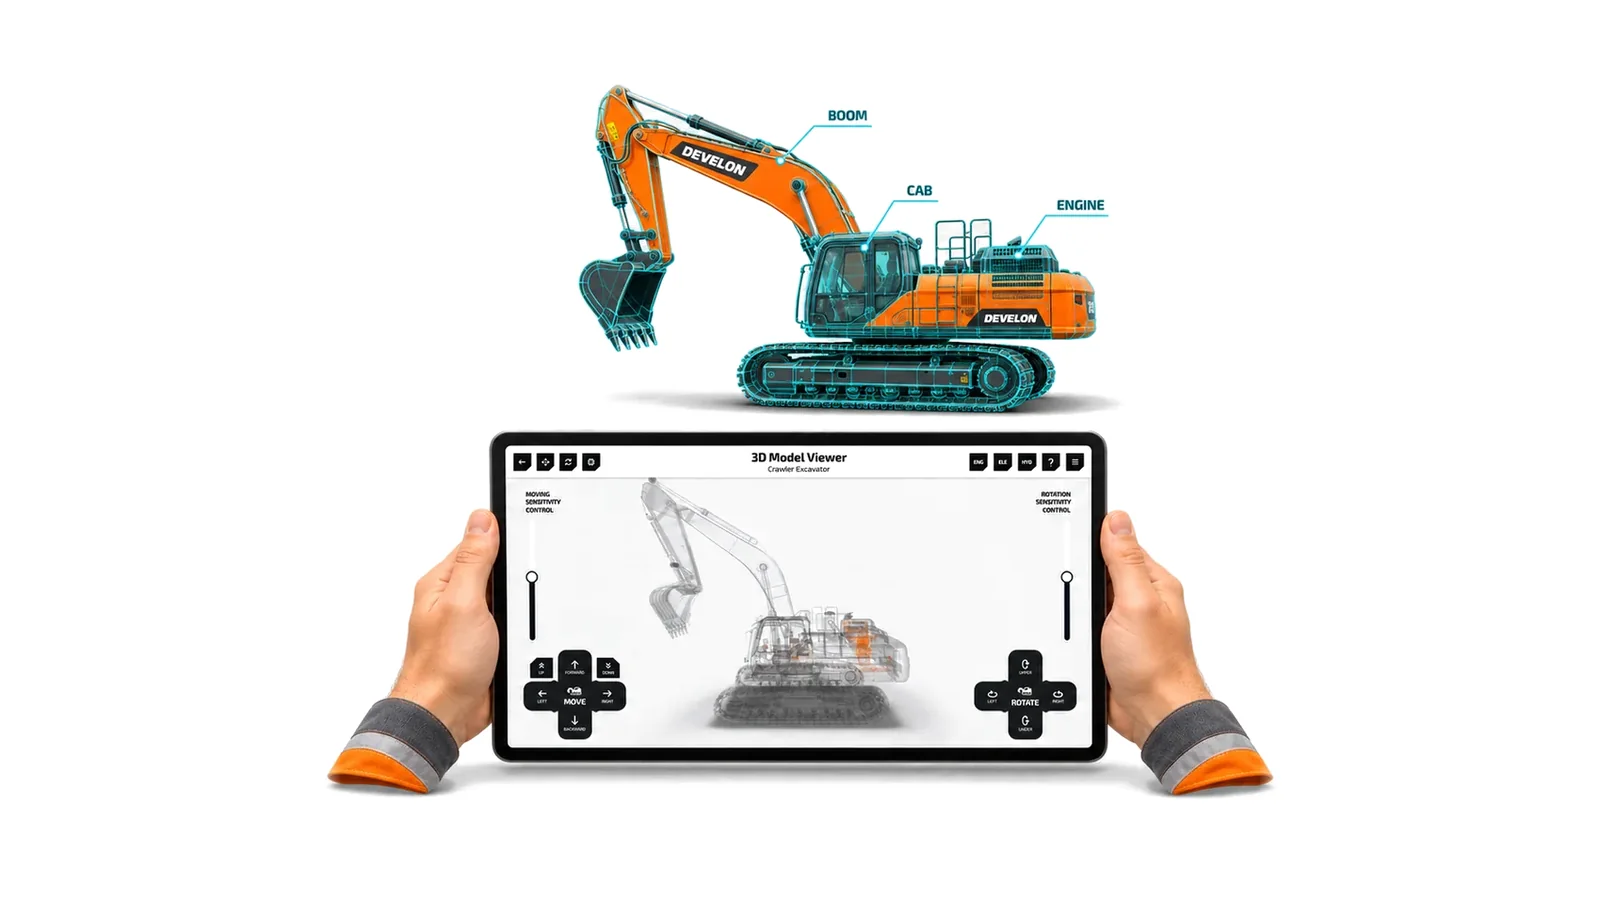
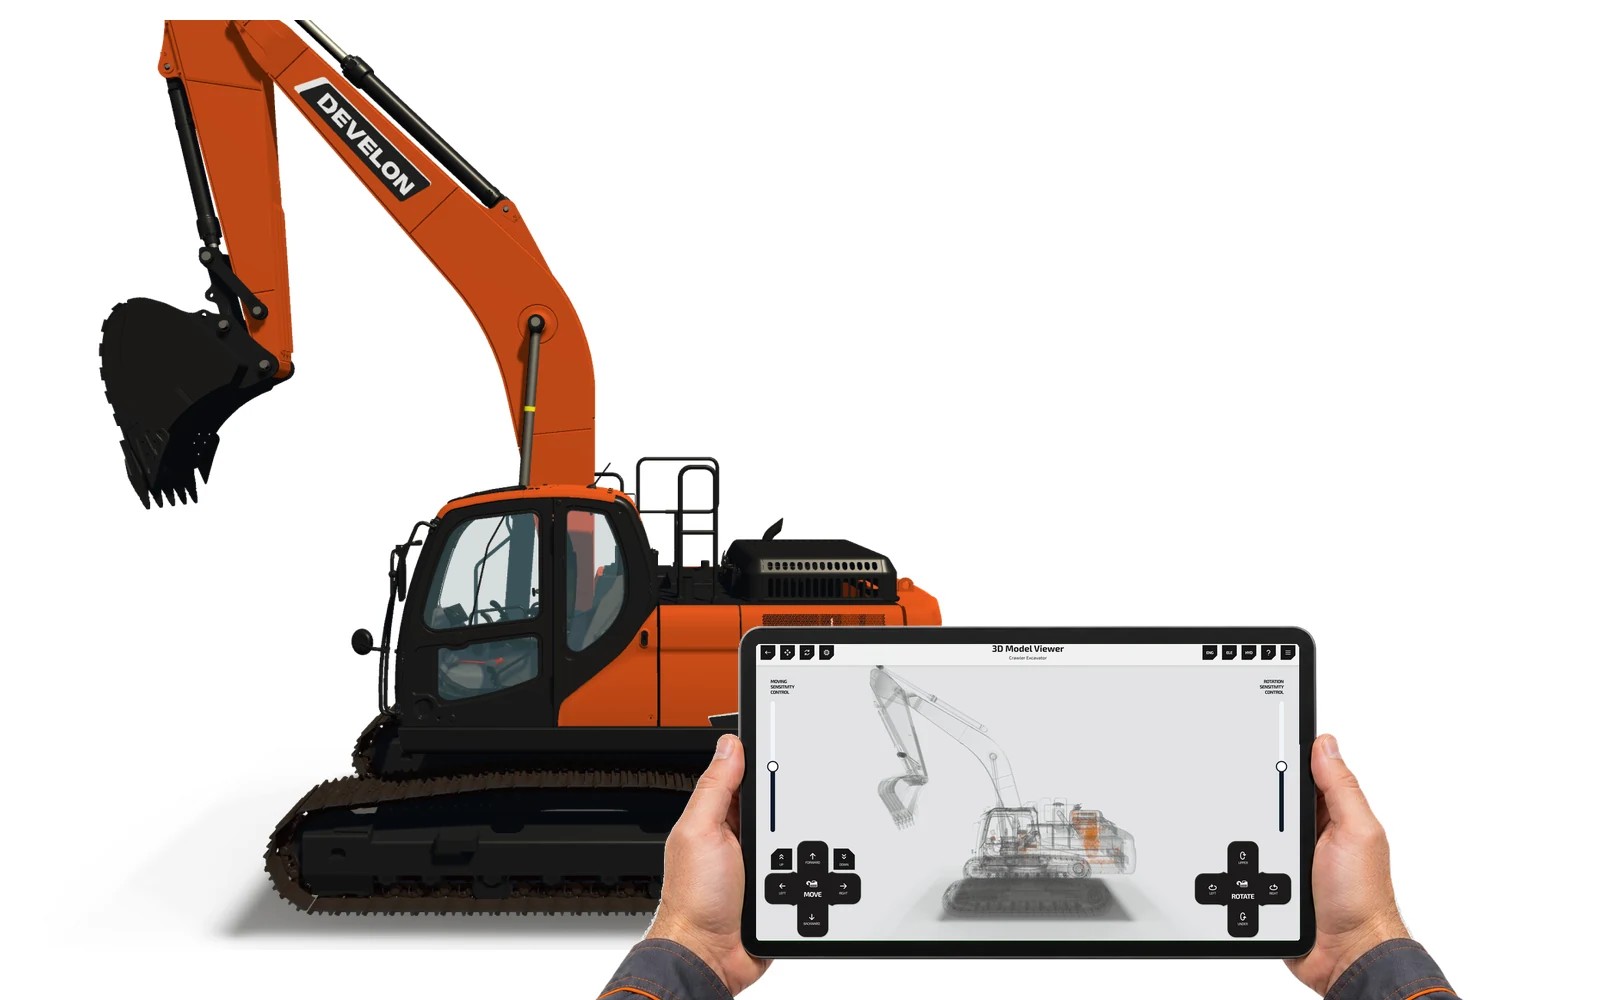
AR Guidance: 피그마 굴착기 원본 + 손·태블릿 합성(어노테이션 없음)을 커버·3D 뷰어에, 나머지는 UI 화면 그대로

diff --git a/index.html b/index.html
@@ -593,7 +593,7 @@ strong { font-weight: 600; }
         <span class="cover-info"><span class="cover-title">Hyundai Maintenance VR</span><span class="cover-sub">중장비 정비 교육 · Meta Quest</span><span class="cover-date">2024.05 ~ Ing</span></span>
       </a>
       <a class="cover" data-goto="ar-guidance" href="#ar-guidance">
-        <span class="cover-media"><img class="cover-img" src="assets/cover/scr-ar-guidance.webp?v=1119p" alt="Hyundai Guidance AR 대표 화면" loading="lazy"></span>
+        <span class="cover-media"><img class="cover-img" src="assets/cover/scr-ar-guidance.webp?v=1119v" alt="Hyundai Guidance AR 대표 화면" loading="lazy"></span>
         <span class="cover-info"><span class="cover-title">Hyundai Guidance AR</span><span class="cover-sub">중장비 AR 가이드 · Tablet</span><span class="cover-date">2022.01 ~ 2023.12</span></span>
       </a>
       <a class="cover" data-goto="korail" href="#korail">
@@ -1349,7 +1349,7 @@ strong { font-weight: 600; }
   <section class="section-block also-like">
     <div class="container">
       <h2 class="also-title">You may also like</h2>
-      <div class="like-grid"><a class="like" data-goto="vr-maintenance" href="#vr-maintenance"><span class="cover-media"><img loading="lazy" src="assets/cover/scr-vr-maintenance.webp?v=1119p" alt=""></span><span class="cover-title">Hyundai Maintenance VR</span><span class="cover-sub">중장비 정비 교육 · Meta Quest</span></a><a class="like" data-goto="ar-guidance" href="#ar-guidance"><span class="cover-media"><img loading="lazy" src="assets/cover/scr-ar-guidance.webp?v=1119p" alt=""></span><span class="cover-title">Hyundai Guidance AR</span><span class="cover-sub">중장비 AR 가이드 · Tablet</span></a></div>
+      <div class="like-grid"><a class="like" data-goto="vr-maintenance" href="#vr-maintenance"><span class="cover-media"><img loading="lazy" src="assets/cover/scr-vr-maintenance.webp?v=1119p" alt=""></span><span class="cover-title">Hyundai Maintenance VR</span><span class="cover-sub">중장비 정비 교육 · Meta Quest</span></a><a class="like" data-goto="ar-guidance" href="#ar-guidance"><span class="cover-media"><img loading="lazy" src="assets/cover/scr-ar-guidance.webp?v=1119v" alt=""></span><span class="cover-title">Hyundai Guidance AR</span><span class="cover-sub">중장비 AR 가이드 · Tablet</span></a></div>
     </div>
   </section>
   <div class="project-nav">
@@ -1571,7 +1571,7 @@ strong { font-weight: 600; }
 <!-- AR GUIDANCE VIEW -->
 <section class="view view-ar-guidance" id="view-ar-guidance">
 
-  <div class="project-cover"><img src="assets/cover/scr-ar-guidance.webp?v=1119p" alt="" loading="lazy"></div>
+  <div class="project-cover"><img src="assets/cover/scr-ar-guidance.webp?v=1119v" alt="" loading="lazy"></div>
   <div class="project-hero">
     <div class="container">
       <div class="eyebrow reveal"><span class="dot"></span><span>Project 02 — AR Training Platform</span></div>
@@ -1627,7 +1627,7 @@ strong { font-weight: 600; }
         <ul class="fig-points"><li><b>Tool Bar (Left)</b>뒤로가기 + 이동·회전·시점·렌더모드. 태블릿 가로 모드 좌측.</li><li><b>System Toggle (Right)</b>ENG · ELE · HYD 전환. 현재 HYD 활성, 유압 부품 오렌지 강조.</li><li><b>X-ray Highlight</b>선택된 시스템만 컬러, 나머지는 반투명 X-ray. 위치·구조 한눈에.</li><li><b>Move Pad + Sensitivity</b>6방향 이동. 좌측 세로 슬라이더로 민감도 조절.</li><li><b>Rotate Pad + Sensitivity</b>6방향 회전. 우측 세로 슬라이더로 민감도 조절.</li></ul>
       </div>
       <figure class="fig-shot" data-lightbox data-caption="3D Model Viewer · X-ray 굴착기">
-        <img loading="lazy" decoding="async" src="assets/legacy-cc2b3487.jpg" data-mock="assets/mock/legacy-cc2b3487.webp?v=1119p" alt="3D Model Viewer · X-ray 굴착기">
+        <img loading="lazy" decoding="async" src="assets/mock/arc-3d-viewer.webp?v=1" data-full="assets/legacy-cc2b3487.jpg" alt="3D Model Viewer · X-ray 굴착기">
       </figure><div class="fig-crit"><div class="w"><b>Worked well</b><ul><li>좌·우 대칭 컨트롤 패드로 양손 조작 분담 — Move 왼손, Rotate 오른손이라는 학습 모델 즉시 형성</li><li>X-ray 모드로 선택 시스템만 강조 — 굴착기 구조 안에서 물리적 위치가 직관적</li><li>세로 슬라이더로 민감도 별도 조절 — 신입자/숙련자 두 층 모두 수용</li></ul></div><div class="g"><b>Could be better</b><ul><li>이동/회전 패드가 항상 화면에 떠 있어 3D 뷰포트 모서리 잠식 — 자동 노출 모드 부재</li><li>민감도 슬라이더가 좌우 끝에 가까워 손바닥 그립 시 오작동 우려</li><li>현재 선택 시스템(HYD) 표시가 우상단 작은 라벨뿐 — 좌측에 큰 라벨 필요</li></ul></div></div>
     </div>
   </section>
@@ -1998,7 +1998,7 @@ strong { font-weight: 600; }
   <section class="section-block also-like">
     <div class="container">
       <h2 class="also-title">You may also like</h2>
-      <div class="like-grid"><a class="like" data-goto="ar-guidance" href="#ar-guidance"><span class="cover-media"><img loading="lazy" src="assets/cover/scr-ar-guidance.webp?v=1119p" alt=""></span><span class="cover-title">Hyundai Guidance AR</span><span class="cover-sub">중장비 AR 가이드 · Tablet</span></a><a class="like" data-goto="korail" href="#korail"><span class="cover-media"><img loading="lazy" src="assets/cover/scr-korail.webp?v=1119p" alt=""></span><span class="cover-title">메타버스 플래그쉽 NIPA2</span><span class="cover-sub">KORAIL 정비 메타버스 · PC + Mobile</span></a></div>
+      <div class="like-grid"><a class="like" data-goto="ar-guidance" href="#ar-guidance"><span class="cover-media"><img loading="lazy" src="assets/cover/scr-ar-guidance.webp?v=1119v" alt=""></span><span class="cover-title">Hyundai Guidance AR</span><span class="cover-sub">중장비 AR 가이드 · Tablet</span></a><a class="like" data-goto="korail" href="#korail"><span class="cover-media"><img loading="lazy" src="assets/cover/scr-korail.webp?v=1119p" alt=""></span><span class="cover-title">메타버스 플래그쉽 NIPA2</span><span class="cover-sub">KORAIL 정비 메타버스 · PC + Mobile</span></a></div>
     </div>
   </section>
   <div class="project-nav">
